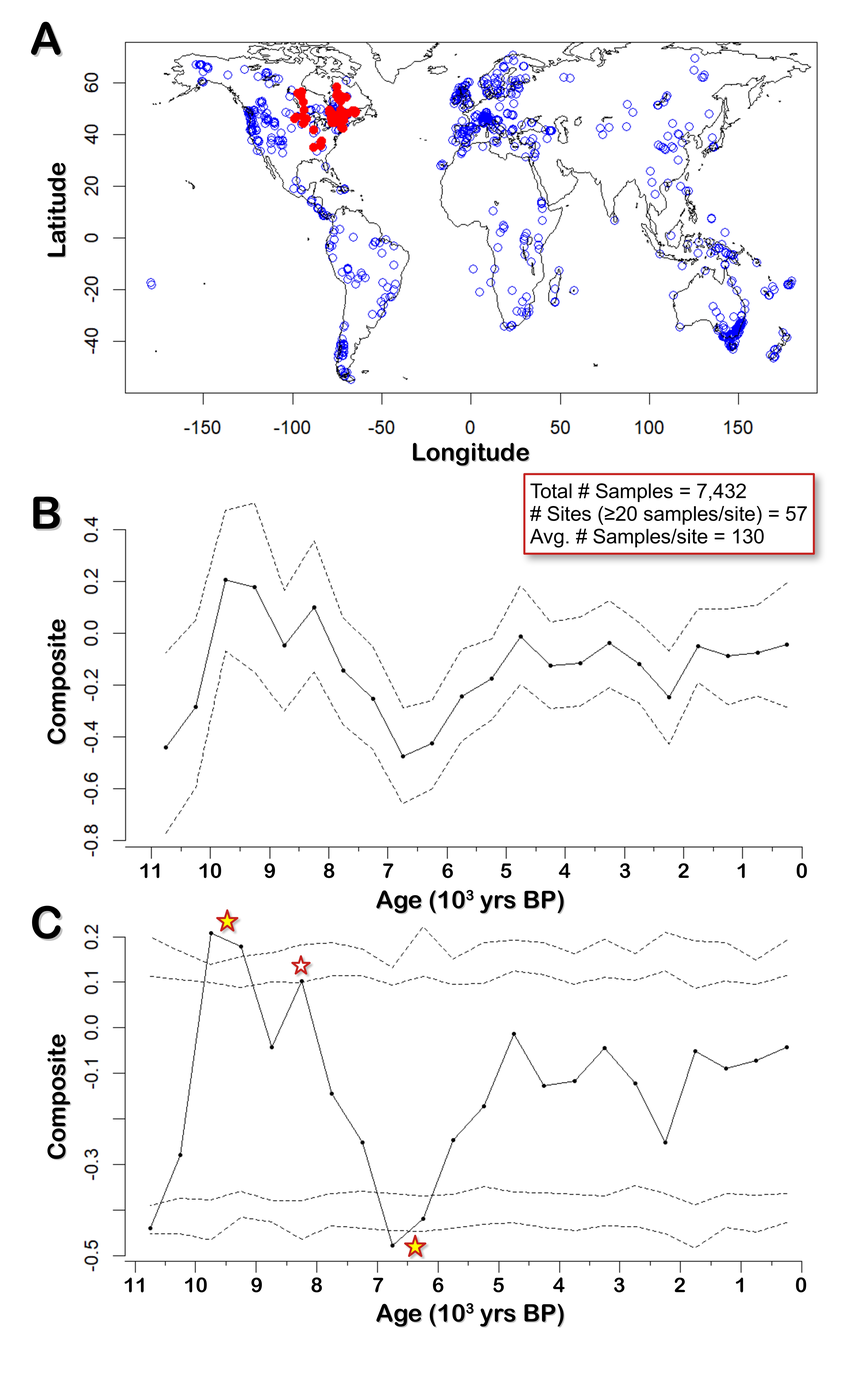
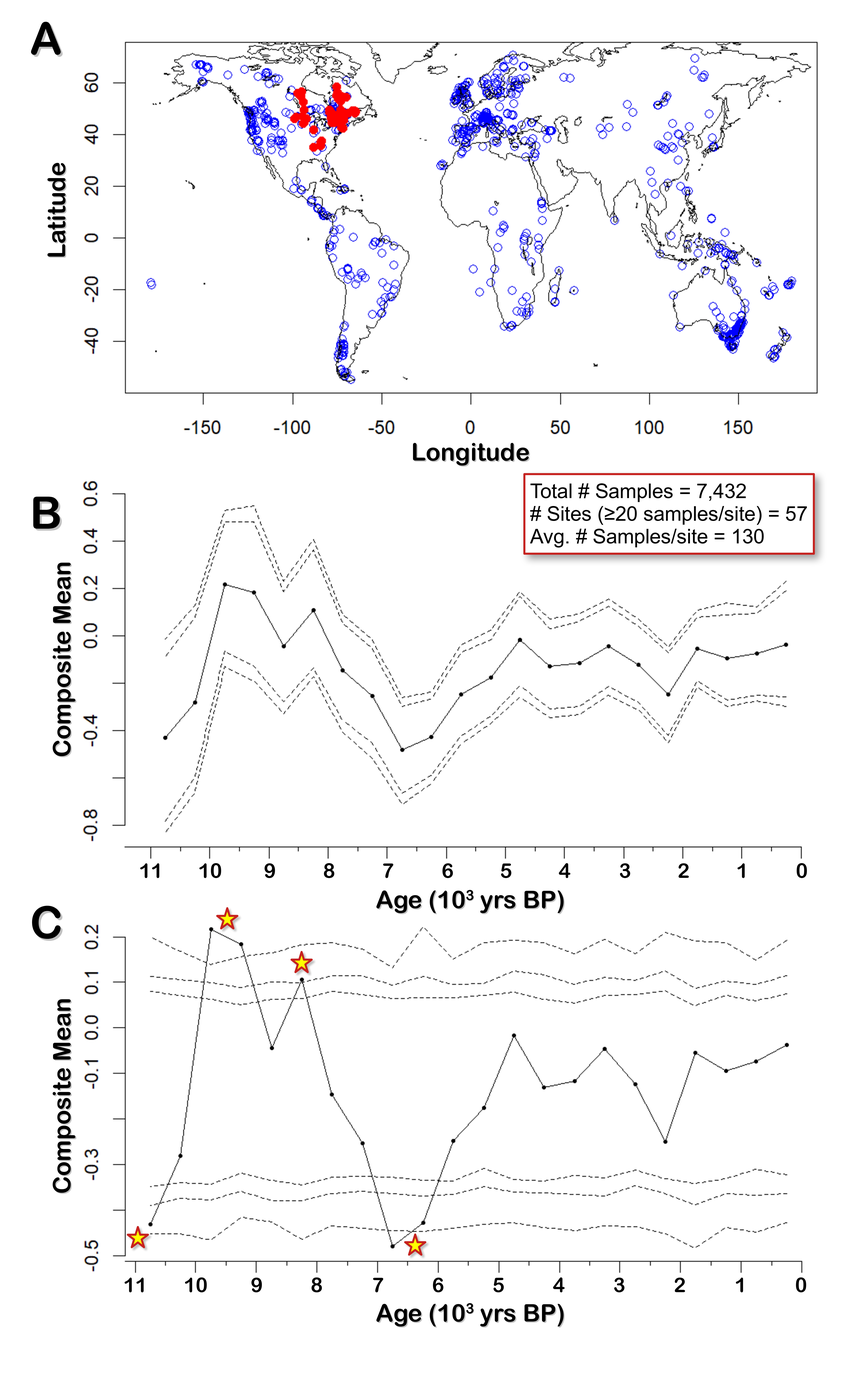
general text edits and added new Fig to img folder

diff --git a/content/project/AboutOPC/index.md b/content/project/AboutOPC/index.md
@@ -182,27 +182,29 @@ where <strong>R</strong> = <sup>18</sup><span id="Red">O</span>/<sup>16</sup><sp
 
 The use of &delta;<sup>18</sup><span id="Red">O</span>, as well as other types of <b><a class="one" href="https://www.usgs.gov/programs/climate-research-and-development-program/science/paleoclimate-proxies">Paleoclimate Proxies</a></b> (e.g. pollen, spores, charcoal), has been particularly useful in determining the types of plant communities (i.e. **biomes**) that once populated North America since end of the last ice age ~11,700 **ya** (Note: designated end of the <b><a class="one" href="https://stratigraphy.org/chart">Pleistocene epoch</a></b>). Studies of pollen from across the province show relatively rapid changes in vegetation during the early part of the **Holocene**.**<sup>34-38</sup>** Deglaciated areas that once supported **Spruce** (*Picea spp.*) and tundra-like (herbs and shrubs) vegetation gave way to **Jack Pine** (*Pinus banksiana*), **Paper Birch** (*Betula papyrifera*) and a minor mix of other species (e.g. **Oaks**, **Ashes**, **Elms**, **Beech**). By ~10,000 **ya** a wide band of forests had developed along the trailing edge of the retreating ice sheet that stretched from eastern Alberta and southern Saskatchewan down through the mid-west and north-eastern United States.**<sup>38</sup>** However, by the **mid-Holocene** (~9,000 to 6,000 **ya**) the climate in North America became unusual warm and dry during the summer months.**<sup>38-40</sup>** This so-called <span id="Blue">H</span>olocene <span id="Blue">C</span>limate <span id="Blue">O</span>ptimum (<span id="Blue">HCO</span>) is thought to have been the major cause of the eastward migration of the western prairie and the subsequent expansion of <span id="Gr2">TGC</span> within southern Ontario. Cyclic changes in the earth's orbit (i.e. <b><a class="one" href="https://climate.nasa.gov/news/2948/milankovitch-orbital-cycles-and-their-role-in-earths-climate/">Milankovitch Cycles</a></b>) appears to be the main cause of the **mid-Holocene** warming event, a process referred to as **orbital forcing**.**<sup>41-44</sup>** However, it is interesting to note that the timing of the <span id="Blue">HCO</span> varied across the north. A review of **Holocene** proxy data from across the western Arctic (140 sites) revealed that in Alaska and northwest Canada warming started earlier at around 11,000 **ya** (lasting ~2,200 years), while in the Hudson Bay region and the Canadian Arctic islands warming started ~7,300 **ya** (lasting ~3,100 years) and ~8,600 **ya** (lasting ~3,400 years), respectively.**<sup>45</sup>** Clearly regional factors played a role in modifying the timing of the <span id="Blue">HCO</span> (e.g. ocean currents, albedo and temperature affects of large remnant ice sheets around Hudson Bay). Nevertheless, by ~7,000 **ya** Ontario (now ice free) had undergone noticeable changes in the composition of its forests. Pollen studies shows that both cool mixed forests (e.g. **Birch**, **Beech**, **White Pine**, **Hemlock**, **Cedar**) as well as the more southerly deciduous forests (e.g. **Sugar Maple**, **Ash**, **Oaks**, **Beech**, **Hickory**, **Chestnut**) had advanced further north beyond their current ranges.**<sup>34-38</sup>** The relatively stable levels of herbaceous plant pollen (i.e. grasses and forbs) during this time also suggests that open forested areas, like oak savannas, were part of the province's landscape. By the end of the <span id="Blue">HCO</span> (~4,000 **ya** to present) the climate in Ontario (and the rest of the continent) became cooler and wetter resulting in the southerly retreat of both the cool-mixed and temperate deciduous forests.**<sup>34-38</sup>** This wetter climate likely allowed forests to invade open areas leading to a mosaic of vegetation types within the province.  
 
-**2.2 NATURAL DISTURBANCES:** <span id="Purple">GRAZING</span> **and** <span id="Red">FIRE</span>: Grasslands around the world are known for their periodic droughts, frequent <span id="Red">fires</span> and large numbers of <span id="Purple">grazing</span> (and burrowing) animals they support.**<sup>23</sup>** These abiotic and biotic factors often interact with one another to significantly alter the structure of grassland communities (e.g. species composition). Indeed, the abundance of fossil (i.e. plant, animal and charcoal) evidence suggests that a major **biome** shift (closed forest-to-open savanna/grassland ecosystems) occurred in North America during the early <b><a class="one" href="https://stratigraphy.org/chart">Miocene</a></b> (<b>Fig. 2</b>).**<sup>46-51</sup>**
+**2.2 NATURAL DISTURBANCES:** <span id="Purple">GRAZING</span> **and** <span id="Red">FIRE</span>: Grasslands around the world are known for their periodic droughts, frequent <span id="Red">fires</span> and large numbers of <span id="Purple">grazing</span> (and burrowing) animals they support.**<sup>23</sup>** These abiotic and biotic factors often interact with one another to significantly alter the structure of grassland communities (e.g. species composition). Indeed, the abundance of fossil (i.e. plant, animal and charcoal) evidence suggests that a major **biome** shift (closed forest-to-open savanna/grassland ecosystems) occurred in North America during the early <b><a class="one" href="https://stratigraphy.org/chart">Miocene</a></b> (<b>Fig. 1</b>).**<sup>46-51</sup>**
 
 <!-- 66 My Cenozoic History -->
 <figure>
 
 <img src="images/66MyClimateHistory.jpg" alt="" width="900px"/>
 
-<figcaption> <b>Figure 2. Earth's Cenozoic Record: Major Climate, Geology and Ecology Events.</b> The above plot used the composite deep-sea benthic foraminifer stable oxygen (&delta;<sup>18</sup><span id="Red">O</span>) isotope data set from the recent <b><a class="one" href="https://www.science.org/doi/10.1126/science.aba6853">CENOGRID study</a></b> (Supplemental Data, <b>Table S34</b>).<b><sup>69</sup></b> Data for the last 34 <b>My</b> has a resolution 2 <b>ky</b>, while the data for the 34 to 67.1 <b>My</b> interval has a resolution of 5 <b>ky</b>. In total 23,626 data points were plotted (<b>gray dots</b>). The <span id="Red">red line</span> represents the smoothed <b>long term average</b> (1 <b>My</b> weighted function) of the above &delta;<sup>18</sup><span id="Red">O</span> values. The values plotted on the y-axis (right) have been <u>reversed</u> (like the paper) to reflect the correlation between <u>warmer temperatures</u> and <u>lower &delta;<sup>18</sup><span id="Red">O</span> values</u>. These oxygen isotope values have been converted to average temperature differences with <u>respect to today</u> (left y-axis). Time and the corresponding geological <b>Periods</b> and <b>Epochs</b> have been plotted on the x-axis. The four climate states (<span id="Red">Hot-house</span>, <span id="Or">Warm-house</span>, <span id="Lb">Cool-house</span>, and <span id="Blue">Ice-house</span>) identified in the study using recurrence plot analysis (i.e. identifies times when the dynamic climate system is "<i>trapped</i>" in a particular state) is also shown above the x-axis.<b><sup>70</sup></b> The <span id="Or">Warm-house</span> and <span id="Red">Hot-house</span> climate states cover most of the <b>Paleogene period</b> (34-67.1 <b>Mya</b>) right up until the critical <b>Eocene</b>-<b>Oligocene</b> transition (<b>EOT</b>). During this span of time global temperatures were more than 5&deg;C warmer compared to today. By comparison, during the relatively shorter <span id="Red">Hot-house</span> climate state (56-47 <b>Mya</b>) temperatures were more than 10&deg;C warmer than they are today. The <span id="Lb">Cool-house</span> climate state (~34-3.3 <b>Ma</b>) shows a marked shift in the &delta;<sup>18</sup><span id="Red">O</span> values compared to earlier times. There is a notable increase in the oxygen isotope values at the start of this period (<b>EOT</b>, 34 <b>Mya</b>), which may be related to the movement of Antarctica away from the other land masses. Isolation of this continent led to the development of the Antarctic Circumpolar Current (<b>ACC</b>, top <span id="Blue">blue</span> arrow). This current, which is driven by strong westerly winds, moves in an unobstructed manner clockwise around Antarctica. This action cools the land mass leading to the development of ice sheets. There is a similar increase in the &delta;<sup>18</sup><span id="Red">O</span> values at ~13.9 <b>Mya</b>, which is due to the stabilization and expansion of the Antarctic ice sheets (top <span id="Blue">blue</span> arrow). The final <span id="Blue">Ice-house</span> climate state (3.3 <b>Mya</b> to present) coincides with the development of the polar (Northern Hemisphere) ice sheet, which is thought to have been fully established by the time of the <b>Pliocene</b>-to-<b>Pleistocene</b> transition (~2.58 <b>Mya</b>). Some other events that may have played an important role (or continue to today) in controlling the global climate system have also been added to the plot. These include: <b>(i)</b> Plate-tectonic forces that closed the Panama Seaway (3-13 <b>Mya</b>).<b><sup>71</sup></b> The so called <i>Panama Hypothesis</i> suggests that closing of the seaway stopped the exchange of water between the Atlantic and Pacific Ocean basins resulting in the formation of meridional flowing deep ocean currents (e.g. <b><a class="one" href="https://scijinks.gov/gulf-stream/">Gulf Stream</a></b>). This in turn led to more intense temperature-evaporation-precipitation regimes within the North Atlantic that fueled glaciation at the pole.<b><sup>72</sup></b>; <b>(ii)</b> Plate-tectonic forces also triggered the collision between the Indian and Eurasian plates (~50 <b>Mya</b>). This led to the development of a massive <b>Tibetan Plateau</b> and the highest Mountain ranges in the world (i.e. Himalayas).<b><sup>73</sup></b> The massive height and size (i.e. 2.5 million km<sup>2</sup>) of this mountainous region creates a natural barrier to any southern moisture-laden air masses, resulting in the famous monsoons of the Indian subcontinent and a prominent northern rainshadow. Natural chemical weathering of the mountains not only helped create large northern sandy deserts (e.g. Taklamakan, Mongolian Gobi), but also resulted in the capture of large amounts of atmospheric <b>C</b><span id="Red">O</span><sub>2</sub>.<b><sup>74,75</sup></b> It has been suggested that such chemical weathering within wet tropical zones that are rich in <b>ophiolite</b> (i.e. igneous rock from the upper mantle and ocean crust that are found along major faults/suture zones, often made of <span id="Dred">Fe</span> and <span id="Dpurp">Mg</span> rich silicates)<b><sup>76</sup></b> have the potential to sequester significant amounts of atmospheric <b>C</b><span id="Red">O</span><sub>2</sub> over time.<b><sup>77,78</sup></b>. Lastly, the flora and fauna that flourished in response to these changing climate patterns, specifically at the dawn of North America's large grassland biomes in the early <b>Miocene</b> (discussed below), are depicted just above the time line.<b><sup>23,46-51</sup></b> 
+<figcaption> <b>Figure 1. Earth's Cenozoic Record: Major Climate, Geology and Ecology Events.</b> The above plot used the composite deep-sea benthic foraminifer stable oxygen (&delta;<sup>18</sup><span id="Red">O</span>) isotope data set from the recent <b><a class="one" href="https://www.science.org/doi/10.1126/science.aba6853">CENOGRID study</a></b> (Supplemental Data, <b>Table S34</b>).<b><sup>69</sup></b> Data for the last 34 <b>My</b> has a resolution 2 <b>ky</b>, while the data for the 34 to 67.1 <b>My</b> interval has a resolution of 5 <b>ky</b>. In total 23,626 data points were plotted (<b>gray dots</b>). The <span id="Red">red line</span> represents the smoothed <b>long term average</b> (1 <b>My</b> weighted function) of the above &delta;<sup>18</sup><span id="Red">O</span> values. The values plotted on the y-axis (right) have been <u>reversed</u> (like the paper) to reflect the correlation between <u>warmer temperatures</u> and <u>lower &delta;<sup>18</sup><span id="Red">O</span> values</u>. These oxygen isotope values have been converted to average temperature differences with <u>respect to today</u> (left y-axis). Time and the corresponding geological <b>Periods</b> and <b>Epochs</b> have been plotted on the x-axis. The four climate states (<span id="Red">Hot-house</span>, <span id="Or">Warm-house</span>, <span id="Lb">Cool-house</span>, and <span id="Blue">Ice-house</span>) identified in the study using recurrence plot analysis (i.e. identifies times when the dynamic climate system is "<i>trapped</i>" in a particular state) is also shown above the x-axis.<b><sup>70</sup></b> The <span id="Or">Warm-house</span> and <span id="Red">Hot-house</span> climate states cover most of the <b>Paleogene period</b> (34-67.1 <b>Mya</b>) right up until the critical <b>Eocene</b>-<b>Oligocene</b> transition (<b>EOT</b>). During this span of time global temperatures were more than 5&deg;C warmer compared to today. By comparison, during the relatively shorter <span id="Red">Hot-house</span> climate state (56-47 <b>Mya</b>) temperatures were more than 10&deg;C warmer than they are today. The <span id="Lb">Cool-house</span> climate state (~34-3.3 <b>Ma</b>) shows a marked shift in the &delta;<sup>18</sup><span id="Red">O</span> values compared to earlier times. There is a notable increase in the oxygen isotope values at the start of this period (<b>EOT</b>, 34 <b>Mya</b>), which may be related to the movement of Antarctica away from the other land masses. Isolation of this continent led to the development of the Antarctic Circumpolar Current (<b>ACC</b>, top <span id="Blue">blue</span> arrow). This current, which is driven by strong westerly winds, moves in an unobstructed manner clockwise around Antarctica. This action cools the land mass leading to the development of ice sheets. There is a similar increase in the &delta;<sup>18</sup><span id="Red">O</span> values at ~13.9 <b>Mya</b>, which is due to the stabilization and expansion of the Antarctic ice sheets (top <span id="Blue">blue</span> arrow). The final <span id="Blue">Ice-house</span> climate state (3.3 <b>Mya</b> to present) coincides with the development of the polar (Northern Hemisphere) ice sheet, which is thought to have been fully established by the time of the <b>Pliocene</b>-to-<b>Pleistocene</b> transition (~2.58 <b>Mya</b>). Some other events that may have played an important role (or continue to today) in controlling the global climate system have also been added to the plot. These include: <b>(i)</b> Plate-tectonic forces that closed the Panama Seaway (3-13 <b>Mya</b>).<b><sup>71</sup></b> The so called <i>Panama Hypothesis</i> suggests that closing of the seaway stopped the exchange of water between the Atlantic and Pacific Ocean basins resulting in the formation of meridional flowing deep ocean currents (e.g. <b><a class="one" href="https://scijinks.gov/gulf-stream/">Gulf Stream</a></b>). This in turn led to more intense temperature-evaporation-precipitation regimes within the North Atlantic that fueled glaciation at the pole.<b><sup>72</sup></b>; <b>(ii)</b> Plate-tectonic forces also triggered the collision between the Indian and Eurasian plates (~50 <b>Mya</b>). This led to the development of a massive <b>Tibetan Plateau</b> and the highest Mountain ranges in the world (i.e. Himalayas).<b><sup>73</sup></b> The massive height and size (i.e. 2.5 million km<sup>2</sup>) of this mountainous region creates a natural barrier to any southern moisture-laden air masses, resulting in the famous monsoons of the Indian subcontinent and a prominent northern rainshadow. Natural chemical weathering of the mountains not only helped create large northern sandy deserts (e.g. Taklamakan, Mongolian Gobi), but also resulted in the capture of large amounts of atmospheric <b>C</b><span id="Red">O</span><sub>2</sub>.<b><sup>74,75</sup></b> It has been suggested that such chemical weathering within wet tropical zones that are rich in <b>ophiolite</b> (i.e. igneous rock from the upper mantle and ocean crust that are found along major faults/suture zones, often made of <span id="Dred">Fe</span> and <span id="Dpurp">Mg</span> rich silicates)<b><sup>76</sup></b> have the potential to sequester significant amounts of atmospheric <b>C</b><span id="Red">O</span><sub>2</sub> over time.<b><sup>77,78</sup></b>. Lastly, the flora and fauna that flourished in response to these changing climate patterns, specifically at the dawn of North America's large grassland biomes in the early <b>Miocene</b> (discussed below), are depicted just above the time line.<b><sup>23,46-51</sup></b> 
 
 </figcaption>
 </figure>
 
-&nbsp; &nbsp; The '*opening up*' of the continent (particularly the central Great Plains) coincided with the appearance of a large number of <span id="Purple">grazing</span> mammals (i.e. **ungulates**).**<sup>47-49</sup>** Fossils from these now extinct species (e.g. early horses, grazing rhinoceroses, proto-camels, early bison and antelopes) share many anatomical features associated with a grazing in wide open grassy plains (e.g. craniodental adaptations: high crown molars for grinding, large attachments sites for masticating muscles; cursorial adaptations: long leg bones for running). Not surprisingly, grasses have evolved their own strategies to counteract grazing by herbivores, such as the development of underground vegetative growth centers (e.g. **rhizomes**) and **silica** deposits within leaves and other parts of the plant.**<sup>23</sup>** The former allows grasses to survive and reproduce after major disturbances, such as <span id="Purple">grazing</span> and seasonal <span id="Red">fires</span>, while the latter presumably makes the plants less palatable to herbivores. These so-called silica '*deposits*' are actually polymers of soluble **silicic acid** (<span id="Gray">Si</span>(<span id="Red">O</span><span id="Blue">H</span>)<sub>4</sub>) that have been shown to take on a variety of shapes or morphologies (i.e. morphotypes).**<sup>52-54</sup>** The natural abundance of **silicon** (<span id="Gray">Si</span>) within the Earth's crust and soil (i.e. chemical weathering process, see <b>Fig. 2</b> legend) would suggest that it is taken up by the roots of most plants. However, it is *interesting* to note that the ability to accumulate <span id="Gray">Si</span> varies considerably among plants (i.e. 0.1-10% dry weight), with grasses and sedges (i.e. **graminoids**) being among the most '*active*' bio-accumulators of this ubiquitous element.**<sup>52,53</sup>** The nature of this '*active*' uptake is due to the presence of a dedicated <b><a class="one" href="https://www.rcsb.org/structure/7NL4">silicon transporter protein</a></b> within the roots of some plants.**<sup>55,56</sup>** Once taken up, the <span id="Gray">Si</span>(<span id="Red">O</span><span id="Blue">H</span>)<sub>4</sub> is transported via the **xylem** (i.e. vascular tissue) to different parts of the plant where it forms *opal-type* bodies (i.e. <span id="Gray">Si</span><span id="Red">O</span><sub>2</sub>&bull;<sub>*n*</sub><span id="Blue">H</span><sub>2</sub><span id="Red">O</span>), commonly referred to as **phytoliths**.**<sup>52,53</sup>** What makes these opal-type **phytoliths** so interesting to ecologists is that, like pollen and spores, they are durable microfossils that can serve as a useful taxonomic tool to reconstruct past vegetation communities. In fact, a study by Strömberg (2005) used phytoliths collected from several central Great Plain states as evidence for a forest-to-grassland transition during the early **Miocene** (11-24 million **ya**).**<sup>50,51</sup>**  
-&nbsp; &nbsp; Although it is still unclear as what caused this more open grassy landscape, it is likely a complex mix of interacting factors (e.g. orbital forcing &rArr; climate seasonality (warmer drier summers) &rArr; fire &rArr; stimulates excess grass growth &rArr; grazing &rArr; grassland diversity and growth (increased fuel loads) &rArr; more fire ...positive feedback). For example, studies have shown that spring burning of tallgrass prairies can stimulate the growth of some plant species, notably dominant grasses (e.g. <b><a class="one" href="https://plants.usda.gov/home/plantProfile?symbol=ANGE">Big bluestem</a></b>), while inhibiting the growth of others (i.e. forbs). However, when the investigators combined <span id="Red">fire</span> with <span id="Purple">grazing</span> then both tallgrasses and forbs do well (i.e. increase species diversity and richness).**<sup>57,58</sup>** As mentioned previously, prairie grasses like *A. gerardii* are adapted to tolerate <span id="Red">fires</span> owing to their underground reproductive structures (i.e. **rhizomes**). <span id="Red">Fire</span> not only clears the ground of dead decaying plant material, but also eliminates invasive <span id="Red">fire</span>-intolerant plants (e.g. shrubs and trees) that, if left unchecked, would change grasslands into wooded areas. In this way burning not only keeps the land open for sun-tolerant prairie plants (i.e. maintains ecosystem - positive feedback mechanism), but also limits the levels of nitrogen (from detrital biomass) in the soil. The latter is important given that nitrogen levels can negatively impact prairie plant diversity and function (i.e. carbon storage).**<sup>59,60</sup>** 
+&nbsp; &nbsp; The '*opening up*' of the continent (particularly the central Great Plains) coincided with the appearance of a large number of <span id="Purple">grazing</span> mammals (i.e. **ungulates**).**<sup>47-49</sup>** Fossils from these now extinct species (e.g. early horses, grazing rhinoceroses, proto-camels, early bison and antelopes) share many anatomical features associated with a grazing in wide open grassy plains (e.g. craniodental adaptations: high crown molars for grinding, large attachments sites for masticating muscles; cursorial adaptations: long leg bones for running). Not surprisingly, grasses have evolved their own strategies to counteract grazing by herbivores, such as the development of underground vegetative growth centers (e.g. **rhizomes**) and **silica** deposits within leaves and other parts of the plant.**<sup>23</sup>** The former allows grasses to survive and reproduce after major disturbances, such as <span id="Purple">grazing</span> and seasonal <span id="Red">fires</span>, while the latter presumably makes the plants less palatable to herbivores. These so-called silica '*deposits*' are actually polymers of soluble **silicic acid** (<span id="Gray">Si</span>(<span id="Red">O</span><span id="Blue">H</span>)<sub>4</sub>) that have been shown to take on a variety of shapes or morphologies (i.e. morphotypes).**<sup>52-54</sup>** The natural abundance of **silicon** (<span id="Gray">Si</span>) within the Earth's crust and soil (i.e. chemical weathering process, see <b>Fig. 2</b> legend) would suggest that it is taken up by the roots of most plants. However, it is *interesting* to note that the ability to accumulate <span id="Gray">Si</span> varies considerably among plants (i.e. 0.1-10% dry weight), with grasses and sedges (i.e. **graminoids**) being among the most '*active*' bio-accumulators of this ubiquitous element.**<sup>52,53</sup>** The nature of this '*active*' uptake is due to the presence of a dedicated <b><a class="one" href="https://www.rcsb.org/structure/7NL4">silicon transporter protein</a></b> within the roots of some plants.**<sup>55,56</sup>** Once taken up, the <span id="Gray">Si</span>(<span id="Red">O</span><span id="Blue">H</span>)<sub>4</sub> is transported via the **xylem** (i.e. vascular tissue) to different parts of the plant where it forms *opal-type* bodies (i.e. <span id="Gray">Si</span><span id="Red">O</span><sub>2</sub>&bull;<sub>*n*</sub><span id="Blue">H</span><sub>2</sub><span id="Red">O</span>), commonly referred to as **phytoliths**.**<sup>52,53</sup>** What makes these opal-type **phytoliths** so interesting to ecologists is that, like pollen and spores, they form durable microfossils that are useful taxonomic tools to reconstruct past vegetation communities. In fact, a study by Strömberg (2005) used phytoliths collected from several central Great Plain states as evidence for a forest-to-grassland transition during the early **Miocene** (11-24 million **ya**).**<sup>50,51</sup>**  
+&nbsp; &nbsp; Although it is still unclear what caused this more open grassy landscape, it is likely the result of multiple interacting factors (e.g. orbital forcing, climate, fire, grazing, etc.). For example, studies have shown that spring burning of tallgrass prairies can stimulate the growth of some plant species, notably dominant grasses (e.g. <b><a class="one" href="https://plants.usda.gov/home/plantProfile?symbol=ANGE">Big bluestem</a></b>), while inhibiting the growth of others (i.e. forbs). However, when <span id="Red">fire</span> is combined with <span id="Purple">grazing</span> then both tallgrasses and forbs do well (i.e. increase species diversity and richness).**<sup>57,58</sup>** As mentioned previously, prairie grasses like *A. gerardii* are adapted to tolerate <span id="Red">fires</span> owing to their underground reproductive structures (i.e. **rhizomes**). <span id="Red">Fire</span> not only clears the ground of dead decaying plant material, but also eliminates invasive <span id="Red">fire</span>-intolerant plants (e.g. shrubs and trees) that, if left unchecked, would change grasslands into wooded areas. In this way burning not only keeps the land open for sun-tolerant prairie plants (i.e. maintains ecosystem - positive feedback mechanism), but also limits the levels of nitrogen (from detrital biomass) in the soil. The latter is important given that nitrogen levels can negatively impact prairie plant diversity and function (i.e. carbon storage).**<sup>59,60</sup>** The importance of <span id="Red">fire</span> to the development of grasslands across the continent is highlighted by the sedimentary charcoal record for the region. As shown in **Figure 2** statistical analysis of the charcoal record for eastern parts of North America (**Fig. 2A**) shows an abnormal increase in fire for periods between 9,000 and 10,000 **ya** and around 8,000 **ya** (**Fig. 2C**). Similar to what previous studies have shown, the charcoal samples taken from these times have composite mean values that exceed both the 99.5<sup>th</sup>, 97.5<sup>th</sup> confidence interval ranges, suggesting that these positive anomalies are significantly different when compared to the 11,000 year linear trend.**<sup>61,62</sup>** This is perhaps not too surprising given that these times coincide with the <span id="Blue">HCO</span>, a period when the frequency of fires is thought to have been much higher due to the warmer climate conditions. Another notable finding from this analysis was the two negative anomalies between 6,000 and 7,000 **ya** and around 11,000 **ya**. The relatively wide confidence intervals for 11,000 **ya** (**Fig. 2B**) suggests that the biomass burning at this time varied considerably among the 57 sampled sites. By contrast, the negative mean composite value for the 6,000-to-7,000 **ya** period has much narrower confidence intervals (**Fig. 2B**) suggesting that at this particular time the biomass burning at these different sites were more similar (i.e. homogeneous response). 
+
+. This gives us more confidence in believing that the biomass burning at this time is significantly less when compared to the 11,000 year linear trend. 
 
 <!-- Paleo-Charcoal Fire Data Eastern North America -->
 <div class="center">
 <figure>
 <img src="images/PFireData_EasternNA.jpg" alt="" width="700px"/>
 
-<figcaption><b>Figure 1: Charcoal Data: History of Fire in Eastern North America. (A)</b> Sedimentary charcoal records from 57 sites (red dots on map) in eastern North America were analyzed using the <b>paleofire</b> R package (<b><a class="one" href="https://www.paleofire.org/">Global Charcoal Database</a></b>).<b><sup>79</sup></b> <b>(B)</b> Reconstruction of past biomass burning was carried out as described by Blarquez and colleagues (2014).<b><sup>79</sup></b> Briefly, sites were selected based on location (latitude: 35&deg; to 60&deg;, longitude: -100&deg; to -40&deg;), number of geochronological controls (i.e. &ge; one per 2500 years) and number of samples (n &ge; 20). The charcoal records were standardized using a three-step transformation process: (i) mini-max data re-scaling (i.e. x&prime;<sub>&ii;</sub> = [x<sub>&ii;</sub> - x<sub>min.</sub>]/[x<sub>max</sub> - x<sub>min</sub>], where x&prime;<sub>&ii;</sub> is the min-max transformed value of the &ii;<sup><i>th</i></sup> sample and x<sub>max</sub> and x<sub>min.</sub> are the maximum and minimum values of the site's record); (ii) Box-Cox transformation of the data to '<i>normalize</i>' its distribution (i.e. a type of power transformation used to homogenize the variance and correct for skewness); and (iii) a final re-scaling of the data to Z-scores (i.e. x&prime;<sub>&ii;</sub> = [x<sub>&ii;</sub> - x<sub><i>mean</i></sub>]/[x<sub><i>sd</i></sub>], where x&prime;<sub>&ii;</sub> is re-scaled value of the &ii;<sup><i>th</i></sup> sample and x<sub>mean</sub> and x<sub><i>sd</i></sub> are the mean and standard deviation of the sample population).<b><sup>80,81</sup></b> Next, a data-binning procedure was used to calculate a composite <u>mean curve</u> (solid line). Bootstrap re-sampling (n = 1000 iterations) of the binned charcoal series was then used to calculate the 95% confident intervals (dashed lines). <b>(C)</b> A '<i>moving</i>' Bootstrap analysis was also carried out on the data. This method selects (with replacement) random <u>overlapping blocks</u> of data to reconstruct new charcoal series. These are in turn used to estimate the confidence intervals around the series composite mean. Lines represent the composite mean (black line) and associated confidence intervals (dashed lines: 99.5<sup>th</sup>, 97.5<sup>th</sup>, 2.5<sup>th</sup> and 0.5<sup>th</sup> bootstrapped percentiles).
+<figcaption><b>Figure 2: Charcoal Data: History of Fire in Eastern North America. (A)</b> Sedimentary charcoal records from 57 sites (red dots on map) in eastern North America were analyzed using the <b>paleofire</b> R package (<b><a class="one" href="https://www.paleofire.org/">Global Charcoal Database</a></b>).<b><sup>79</sup></b> <b>(B)</b> Reconstruction of past biomass burning was carried out as described by Blarquez and colleagues (2014).<b><sup>79</sup></b> Briefly, sites were selected based on location (latitude: 35&deg; to 60&deg;, longitude: -100&deg; to -40&deg;), number of geochronological controls (i.e. &ge; one per 2500 years) and number of samples (n &ge; 20). The charcoal records were standardized using a three-step transformation process: (i) mini-max data re-scaling (i.e. x&prime;<sub>&ii;</sub> = [x<sub>&ii;</sub> - x<sub>min.</sub>]/[x<sub>max</sub> - x<sub>min</sub>], where x&prime;<sub>&ii;</sub> is the min-max transformed value of the &ii;<sup><i>th</i></sup> sample and x<sub>max</sub> and x<sub>min.</sub> are the maximum and minimum values of the site's record); (ii) Box-Cox transformation of the data to '<i>normalize</i>' its distribution (i.e. a type of power transformation used to homogenize the variance and correct for skewness); and (iii) a final re-scaling of the data to Z-scores (i.e. x&prime;<sub>&ii;</sub> = [x<sub>&ii;</sub> - x<sub><i>mean</i></sub>]/[x<sub><i>sd</i></sub>], where x&prime;<sub>&ii;</sub> is re-scaled value of the &ii;<sup><i>th</i></sup> sample and x<sub>mean</sub> and x<sub><i>sd</i></sub> are the mean and standard deviation of the sample population).<b><sup>80,81</sup></b> Next, a data-binning procedure was used to calculate a composite <u>mean curve</u> (solid line). Bootstrap re-sampling (n = 1000 iterations) of the binned charcoal series was then used to calculate the 95% confident intervals (dashed lines). <b>(C)</b> A '<i>moving</i>' Bootstrap analysis was also carried out on the data. This method selects (with replacement) random <u>overlapping blocks</u> of data to reconstruct new charcoal series. These are in turn used to estimate the confidence intervals around the series composite mean. Lines represent the composite mean (black line) and associated confidence intervals (dashed lines: 99.5<sup>th</sup>, 97.5<sup>th</sup>, 95<sup>th</sup>, 5<sup>th</sup>, 2.5<sup>th</sup> and 0.5<sup>th</sup> bootstrapped percentiles).
 </figcaption>
 </figure>
 </div>
@@ -272,6 +274,14 @@ This positive interactions between <span id="Red">fire</span> and <span id="Purp
 **58.** Collins S.L., Knapp A.K., Briggs J.M., Blair J.M. and Steinauer E.M. (1998). Modulation of diversity by grazing and mowing in native tallgrass prairie. Science 280(5364):745-747.  
 **59.** Wedin D.A. and Tilman D. (1996). Influence of nitrogen loading and species composition on the carbon balance of grasslands. Science 274(5293):1720-1723.  
 **60.** Clark C.M. and Tilman D. (2008). Loss of plant species after chronic low-level nitrogen deposition to prairie grasslands. Nature 451(7179):712-715.  
+
+
+  
+**61.** Power M.J., Marlon J., Ortiz N., Bartlein P.J., Harrison S.P., Mayle F.E., Ballouche A., Bradshaw R.H., Carcaillet C., Cordova C. and Mooney S. (2008). Changes in fire regimes since the Last Glacial Maximum: an assessment based on a global synthesis and analysis of charcoal data. Climate dynamics 30(7):pp.887-907.  
+**62.** Blarquez O., Vannière B., Marlon J.R., Daniau A.-L. Power M.J. Brewer S. and Bartlein P.J. (2014). Paleofire: An R package to analyse sedimentary charcoal records from the Global Charcoal Database to reconstruct past biomass burning. Computers and Geosciences 72:255-261.  
+
+
+
 **61.** Plumb G.E. and Dodd J.L. (1994). Foraging ecology of bison and cattle. Rangelands Archives 16(3):107-109.  
 **62.** Hartnett D.C., Hickman K.R. and Walter L.E. (1996). Effects of bison grazing, fire, and topography on floristic diversity in tallgrass prairie. Journal of Range Management 49(5):413-420.  
 **63.** Knapp A.K., Blair J.M., Briggs J.M., Collins S.L., Hartnett D.C., Johnson L.C. and Towne E.G. (1999). The keystone role of bison in North American tallgrass prairie: Bison increase habitat heterogeneity and alter a broad array of plant, community, and ecosystem processes. BioScience 49(1):39-50.  
